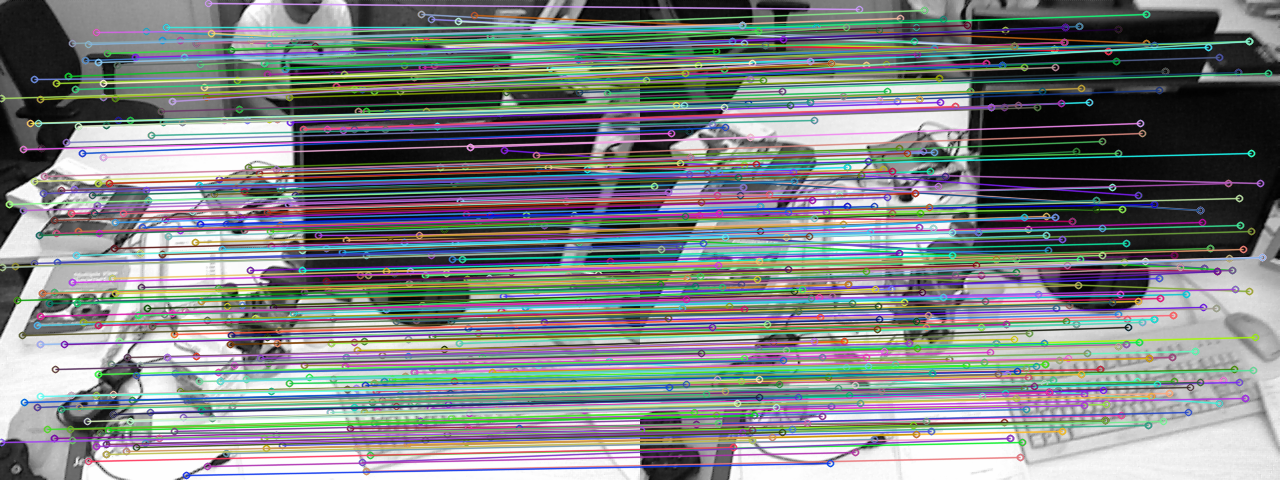
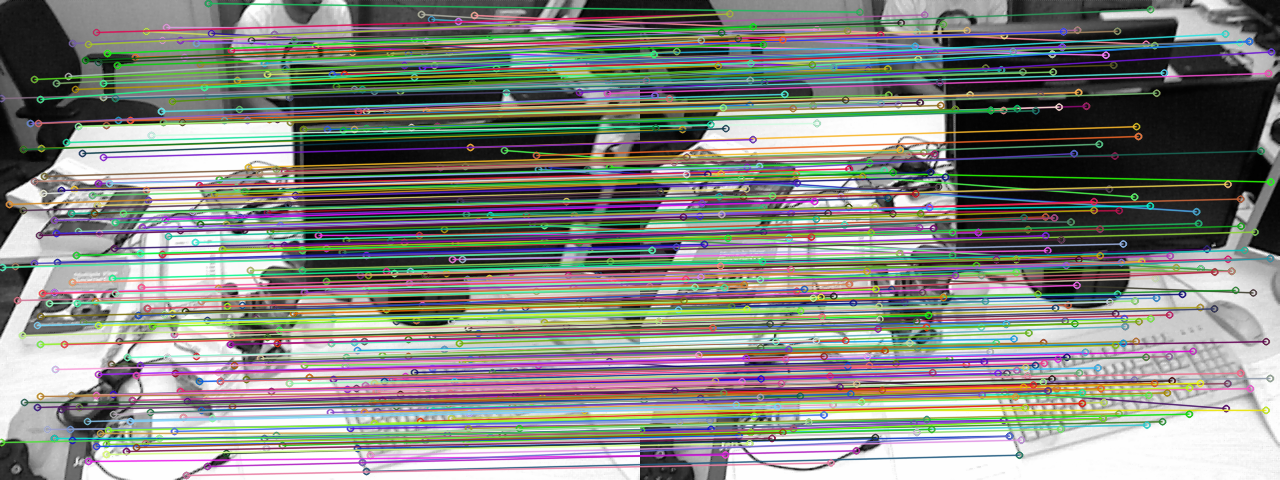
woking

diff --git a/Modules/Tracking/TrackingKLT.cc b/Modules/Tracking/TrackingKLT.cc
@@ -84,7 +84,7 @@ bool TrackingKLT::doTracking(const cv::Mat &im, Sophus::SE3f &Tcw)
     nframesext++;
    
 
-    visualizer_->drawCurrentFeatures(currFrame_.getKeyPointsDistorted(), currIm_);
+    //visualizer_->drawCurrentFeatures(currFrame_.getKeyPointsDistorted(), currIm_);
     // If no map is initialized, perform monocular initialization
     if (status_ == NOT_INITIALIZED)
     {
@@ -95,8 +95,7 @@ bool TrackingKLT::doTracking(const cv::Mat &im, Sophus::SE3f &Tcw)
 
 
             //nFramesFromLastKF_ = 0;
-
-            std::cout << "MonocularMapInitialization" << std::endl;  
+   
             
             status_ = GOOD;
             Tcw = currFrame_.getPose();
@@ -119,7 +118,15 @@ bool TrackingKLT::doTracking(const cv::Mat &im, Sophus::SE3f &Tcw)
 
             Tcw = currFrame_.getPose();
             //updateMotionModel();
+            pLastKeyFrame_ = shared_ptr<KeyFrame>(new KeyFrame(currFrame_));
+            // Insert KeyFrame into the map
+            pMap_->insertKeyFrame(pLastKeyFrame_);
+            // Add all observations into the map
+            nLastKeyFrameId = pLastKeyFrame_->getId();
+            
+            // Run a Bundle Adjustment to refine the solution
             // Promote current frame to KeyFrame
+
             
             return true;
         }
@@ -192,7 +199,6 @@ bool TrackingKLT::MonocularMapInitialization() {
     //Find matches between previous and current frame
     int nMatches = searchForInitializaion(prevFrame_,currFrame_,settings_.getMatchingInitTh(),vMatches_,vPrevMatched_);
 
-    //visualizer_->drawFrameMatches(currFrame_.getKeyPointsDistorted(),currIm_,vMatches_);
 
     //If not enough matches found, updtate reference frame
     if(nMatches < 70){
@@ -217,6 +223,9 @@ bool TrackingKLT::MonocularMapInitialization() {
         return false;
     }
 
+    //find the points corresponding to the matches
+
+
     //Get map scale
     vector<float> vDepths;
     for(int i = 0; i < vTriangulated.size(); i++){
@@ -231,9 +240,8 @@ bool TrackingKLT::MonocularMapInitialization() {
     Tcw.translation() = Tcw.translation() / scale;
 
     currFrame_.setPose(Tcw);
-
     int nTriangulated = 0;
-
+    
     for(size_t i = 0; i < vTriangulated.size(); i++){
         if(vTriangulated[i]){
             Eigen::Vector3f v = v3DPoints[i] / scale;
@@ -241,15 +249,15 @@ bool TrackingKLT::MonocularMapInitialization() {
 
             prevFrame_.setMapPoint(i,pMP);
             currFrame_.setMapPoint(vMatches_[i],pMP);
-
             pMap_->insertMapPoint(pMP);
 
             nTriangulated++;
         }
     }
-
+//    visualizer_->drawFrameMatches(currFrame_.getKeyPoints(), currIm_, vMatches_);
+    std::cout << "Number of points: " << currFrame_.getMapPoints().size() << endl;
     cout << "Map initialized with " << nTriangulated << " MapPoints" << endl;
-
+    std::cout << "Number of matches"<< nMatches << std::endl;
     shared_ptr<KeyFrame> kf0(new KeyFrame(prevFrame_));
     shared_ptr<KeyFrame> kf1(new KeyFrame(currFrame_));
 
@@ -277,6 +285,7 @@ bool TrackingKLT::MonocularMapInitialization() {
 
     pLastKeyFrame_ = kf1;
     nLastKeyFrameId = kf1->getId();
+    klt_tracker_.SetReferenceImage(currIm_, currFrame_.getKeyPoints());
 
     mapVisualizer_->updateCurrentPose(Tcw);
 
@@ -290,61 +299,78 @@ bool TrackingKLT::cameraTracking()
     std::cout << "TRACKING"<< std::endl;
 
     // === [0] Prepare mask
+    //convert currIm    to grayscale if it is not already
     cv::Mat global_mask(currIm_.rows, currIm_.cols, CV_8U, cv::Scalar(255));
     cv::Mat kernel = cv::getStructuringElement(cv::MORPH_RECT, cv::Size(5, 5));
     cv::erode(global_mask, global_mask, kernel);
     // === [1] KLT Tracking
         // Copy previous keypoints (CORRECTION 1)
-        std::vector<cv::KeyPoint> pts ;
     
         // Prepare landmark statuses (CORRECTION 2)
-        std::vector<LandmarkStatus> statuses(prevFrame_.LandmarkStatuses().size(), LandmarkStatus::TRACKED);
-    
+        std::vector<LandmarkStatus> statuses;
+        for (int idx = 0; idx < vMatches_.size(); idx++) {
+            if(vMatches_[idx] == -1) {
+                statuses.push_back(LandmarkStatus::BAD);
+            } else {
+                statuses.push_back(LandmarkStatus::TRACKED);
+            }
+        }
         // Run KLT tracking
-        currFrame_.resize(prevFrame_.getKeyPoints().size());
-        currFrame_.setKeyPoints(prevFrame_.getKeyPoints());
-        currFrame_.setLandmarkStatuses(statuses);
+        assert(currFrame_.getKeyPoints().size() == statuses.size());
         int nMatches = klt_tracker_.Track(currIm_, currFrame_.getKeyPoints(), statuses,
                                           true, options_.klt_min_SSIM, global_mask);
-        //convert status to matches using a loop 
+        std::cout << "NMATCHES: " << nMatches << std::endl;
+        //convert landmark statuses to matches
+        for (int idx = 0; idx < vMatches_.size(); idx++) {
+            if (statuses[idx] == LandmarkStatus::TRACKED) {
+                vMatches_[idx] = idx; // Keep the index if tracked
+            } else {
+                vMatches_[idx] = -1; // Mark as not tracked
+            }
+        }
+        // Update current frame with the tracked keypoints and statuses
+        currFrame_.setLandmarkStatuses(statuses);
+        klt_tracker_.SetReferenceImage(currIm_, currFrame_.getKeyPoints(), global_mask);
 
-
-           // Store tracked keypoints into current frame (CORRECTION 3)
-            currFrame_.setLandmarkStatuses(statuses);
-            currFrame_.resize(pts.size());
-            currFrame_.setKeyPoints(pts);
-            currFrame_.setIm(currIm_);
-            visualizer_->drawCurrentFrame(currFrame_);
-
-            for (int t = 0; t < currFrame_.LandmarkStatuses().size(); t++)
-            {
-                if (currFrame_.LandmarkStatuses()[t] == LandmarkStatus::TRACKED){
-                    vMatches_[t] = 1;
-                }
-                else
-                {
-                    vMatches_[t] = -1;
-                }
-            }                              //draw matches 
-        visualizer_->drawFrameMatches(currFrame_.getKeyPointsDistorted(), currIm_,vMatches_ );
+        visualizer_->drawFrameMatches(currFrame_.getKeyPoints(), currIm_,vMatches_ );
         visualizer_->updateWindows();
+    // === [3] Check if enough points were tracked
+    if (nMatches < 30)
+    {
+        std::cout << "Not enough points tracked: " << nMatches << std::endl;
+        return false;
+    }
 
-        // === [2] Check if tracking was successful                                          
+    // === [2] Check if tracking was successful                                          
     //Sophus::SE3f currPose= prevFrame_.getPose();
     //currFrame_.setPose(currPose);
-
-    /*poseOnlyOptimization(currFrame_);
+   /* std::cout << "Number of Map points: " << currFrame_.getMapPoints().size()<< std::endl;
+    poseOnlyOptimization(currFrame_);
     
     //Tcw.translation() /= scale;
     Sophus::SE3f Twc=currFrame_.getPose();
+    std::cout << "Tcw: " << Twc.matrix() << std::endl;
     mapVisualizer_->updateCurrentPose(Twc);
-
-    klt_tracker_.SetReferenceImage(currIm_, currFrame_.getKeyPoints(), global_mask);
-    prevFrame_.assign(currFrame_);
-    prevIm_ = currIm_;
-   */
+    
+    //klt_tracker_.SetReferenceImage(currIm_, currFrame_.getKeyPoints(), global_mask);
     // std::cout << "[DEBUG] currFrame_ Pose:\n" << currFrame_.getPose().matrix() << std::endl;
     status_ == GOOD;
+    // 1. Promote to keyframe
+pLastKeyFrame_ = std::make_shared<KeyFrame>(currFrame_);
+
+// 2. Insert keyframe into map
+pMap_->insertKeyFrame(pLastKeyFrame_);
+
+// 3. Add observations
+for (int i = 0; i < currFrame_.getMapPoints().size(); ++i) {
+    auto mp = currFrame_.getMapPoint(i);
+    if (mp && currFrame_.LandmarkStatuses()[i] == LandmarkStatus::TRACKED) {
+        pMap_->addObservation(pLastKeyFrame_->getId(), mp->getId(), i);
+    }
+}
+
+nLastKeyFrameId = pLastKeyFrame_->getId();
+*/
     // === [9] Success if enough tracked
     return true;
 }

diff --git a/Modules/Matching/lucas_kanade_tracker.cc b/Modules/Matching/lucas_kanade_tracker.cc
@@ -171,6 +171,7 @@ int LucasKanadeTracker::Track(const Mat &newIm, std::vector<KeyPoint> &nextPts,
     vector<LandmarkStatus> &vMatched, const bool bInitialFlow,
     const float minSSIM, const cv::Mat& mask) {
 
+std::cout << "Lucas-Kanade optical flow tracking with " << nextPts.size() << " points." << std::endl;
 
         //Dimensions of half of the window
 Point2f halfWin((winSize_.width - 1) * 0.5f, (winSize_.height - 1) * 0.5f);
@@ -341,10 +342,10 @@ dJptr[0] = (short) jxval;
 dJptr[1] = (short) jyval;
 
 //Compute accum values for later gain and bias computation
-//if(mask.at<uchar>(my,mx) != 0) {
+if(mask.at<uchar>(my,mx) != 0) {
 meanJ += (float) jval;
 meanJ2 += (float) (jval * jval);
-//}
+}
 }
 
 if (vMatched[i] == OUT_IMAGE_BOUNDARIES) {

diff --git a/Modules/Visualization/FrameVisualizer.cc b/Modules/Visualization/FrameVisualizer.cc
@@ -44,10 +44,7 @@ void FrameVisualizer::drawFrameMatches(std::vector<cv::KeyPoint> &vKeys, cv::Mat
 
     cv::Mat imMatches;
     cv::drawMatches(refIm_,vGoodKeys1,im,vGoodKeys2,vDMatches,imMatches);
-    cv::imwrite("/home/student/MRGCV/Mini-SLAM/matches.png", imMatches);
-
     cv::imshow("Matches between frames", imMatches);
-    //write to image 
 }
 
 void FrameVisualizer::drawMatches(std::vector<cv::KeyPoint> &vKeys1, cv::Mat &im1, std::vector<cv::KeyPoint> &vKeys2, cv::Mat &im2, std::vector<int> &vMatches) {
@@ -115,5 +112,5 @@ void FrameVisualizer::drawCurrentFrame(Frame &f) {
 void FrameVisualizer::updateWindows() {
     cv::waitKey(10);
 
-}
 
+}

diff --git a/Modules/Tracking/TrackingKLT.h b/Modules/Tracking/TrackingKLT.h
@@ -54,11 +54,11 @@
         int klt_max_iters = 10;
         float klt_epsilon = 0.001;
         float klt_min_eig_th = 1e-4;
-        float klt_min_SSIM = 0.85;
+        float klt_min_SSIM = 0.7;
 
         int images_to_insert_keyframe = 5;
 
-        float radians_per_pixel;
+        float radians_per_pixel=0.01f;
     };
 
      /*
